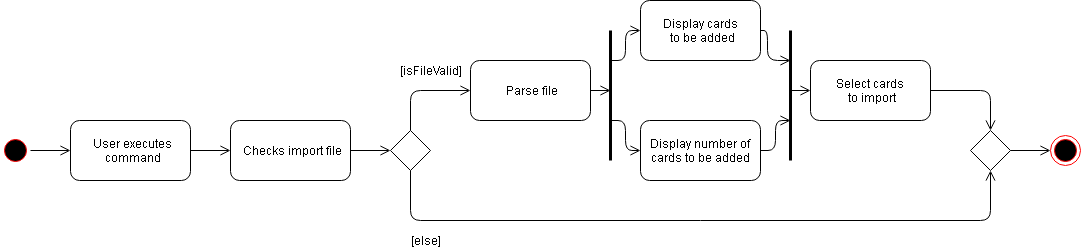
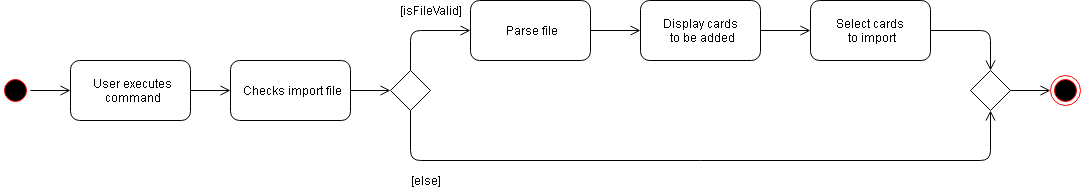
Rebuild pages at 4bc49e5b195c42560e58ed78175b3e92c6da8e38

diff --git a/DeveloperGuide.html b/DeveloperGuide.html
@@ -774,20 +774,25 @@ If the <code>currentStatePointer</code> is at index <code>addressBookStateList.s
 <div class="sect3">
 <h4 id="current-implementation-2"><a class="link" href="#current-implementation-2">3.2.1. Current implementation</a></h4>
 <div class="paragraph">
-<p>The import mechanism works with the <code>StorageManager</code> to add and save multiple cards at once. The imported cards are stored internally as an xml file on the hard disk. Additionally, the import mechanism implements the following operations:</p>
+<p>The import mechanism is facilitated by <code>ImportFile</code> and <code>TriviaBundle</code>.
+Additionally, the import mechanism implements the following operations:</p>
 </div>
 <div class="ulist">
 <ul>
 <li>
-<p><code>ImportCommand#parseFile()</code>&#8201;&#8212;&#8201;Parse the question(s), answer(s) and topic(s) into a list of cards to add.</p>
+<p><code>ImportFile#parseFileToCards()</code>&#8201;&#8212;&#8201;Parse file in a specific format into a unique list of cards.</p>
 </li>
 <li>
-<p><code>ImportCommand#addMultipleCards()</code>&#8201;&#8212;&#8201;Adds a list of cards into the <code>TriviaBundle</code>.</p>
+<p><code>TriviaBundle#haveAnyCard()</code>&#8201;&#8212;&#8201;Checks if the cards to add contain any duplicated cards already in the <code>TriviaBundle</code>.</p>
+</li>
+<li>
+<p><code>TriviaBundle#addMultipleCards()</code>&#8201;&#8212;&#8201;Adds multiple cards into the <code>TriviaBundle</code> at once.</p>
 </li>
 </ul>
 </div>
 <div class="paragraph">
-<p><code>addMultiple()</code> is exposed in the Model interface as Model#addMultipleCards().</p>
+<p>These operations are exposed in the Model interface as <code>Model#parseFileToCards()</code>,
+<code>Model#haveAnyCard()</code>, <code>Model#addMultipleCards()</code> respectively.</p>
 </div>
 <div class="paragraph">
 <p>The following activity diagram summarizes what happens when a user executes the import command.</p>
@@ -801,7 +806,7 @@ If the <code>currentStatePointer</code> is at index <code>addressBookStateList.s
 <p>Given below is an example usage scenario and how the import mechanism behaves.</p>
 </div>
 <div class="paragraph">
-<p>Step 1: The user enters the import command to import a file from the hard disk. An <code>ImportCommand</code> object is initialised.</p>
+<p>Step 1: The user enters the import command to import a file from an absolute file path. An <code>ImportCommand</code> object is initialised.</p>
 </div>
 <div class="paragraph">
 <p>Step 2: When the <code>ImportCommand</code> executes, the desired import file is first verified to be valid. The following checks are done:</p>
@@ -812,7 +817,7 @@ If the <code>currentStatePointer</code> is at index <code>addressBookStateList.s
 <p>the import path points to a file</p>
 </li>
 <li>
-<p>the import file is of .txt type</p>
+<p>the import file is of plain text type (file.txt)</p>
 </li>
 <li>
 <p>the import file is readable</p>
@@ -820,12 +825,20 @@ If the <code>currentStatePointer</code> is at index <code>addressBookStateList.s
 </ul>
 </div>
 <div class="paragraph">
-<p>Step 3: Once verified, the import file is parsed to form a list of cards to be added into <code>TriviaBundle</code>. The number of cards, questions and answer to be imported is displayed to the user.
-The sequence diagram below shows how the adding of multiple cards works</p>
+<p>Step 3: Once verified, the import file is parsed to form a unique list of cards that is stored in <code>UniqueCardList</code>.</p>
+</div>
+<div class="paragraph">
+<p>Step 4: Every card in the unique card list is checked against the existing list of cards in <code>TriviaBundle</code> for duplicates.</p>
+</div>
+<div class="paragraph">
+<p>Step 5: The unique card list is then added into <code>TriviaBundle</code>. The number of cards, the cards imported are displayed to the user for verification.<br></p>
+</div>
+<div class="paragraph">
+<p>The sequence diagram below shows the import of multiple cards.</p>
 </div>
 <div class="imageblock">
 <div class="content">
-<img src="images/AddMutipleCardsSequenceDiagram.png" alt="AddMutipleCardsSequenceDiagram" width="800">
+<img src="images/ImportMultipleCardsSequenceDiagram.png" alt="ImportMultipleCardsSequenceDiagram" width="800">
 </div>
 </div>
 </div>
@@ -869,7 +882,7 @@ The sequence diagram below shows how the adding of multiple cards works</p>
 <div class="ulist">
 <ul>
 <li>
-<p><strong>Alternative 1 (current choice):</strong> Tokenize string according to user defined character between question and answer, and between cards.</p>
+<p><strong>Alternative 1 (current choice):</strong> Tokenize string according to defined characters between question and answer, and between cards.</p>
 <div class="ulist">
 <ul>
 <li>
@@ -882,11 +895,11 @@ The sequence diagram below shows how the adding of multiple cards works</p>
 </div>
 </li>
 <li>
-<p><strong>Alternative 2 (current choice):</strong> Tokenize string based on AddCommand input format</p>
+<p><strong>Alternative 2 (current choice):</strong> Tokenize string based on AddCommand input format.</p>
 <div class="ulist">
 <ul>
 <li>
-<p>Pros: Easy to implement as it allows reuse of add command</p>
+<p>Pros: Easy to implement as it allows reuse of add command functions.</p>
 </li>
 <li>
 <p>Cons: Unable to undo/ redo import of all cards as the import command is essentially multiple add commands.</p>
@@ -1884,13 +1897,10 @@ b. Require developers to download those libraries manually (this creates extra w
 <p>User: Input import command.</p>
 </li>
 <li>
-<p>System: Displays the number of cards, questions and answer to be imported.</p>
+<p>System: Parses import file, displays the cards and the number of cards imported.</p>
 </li>
 <li>
-<p>User: Selects the desired questions and answers to import.</p>
-</li>
-<li>
-<p>System: Stores the desired questions and answers in database.</p>
+<p>User: Reviews cards imported.</p>
 <div class="paragraph">
 <p>Use case ends.</p>
 </div>
@@ -1907,7 +1917,7 @@ b. Require developers to download those libraries manually (this creates extra w
 <div class="ulist none">
 <ul class="none">
 <li>
-<p>2a1. System: Indicates file can&#8217;t be found/read.</p>
+<p>2a1. System: Display invalid file path.</p>
 <div class="paragraph">
 <p>Use case ends.</p>
 </div>
@@ -1924,26 +1934,9 @@ b. Require developers to download those libraries manually (this creates extra w
 <div class="ulist none">
 <ul class="none">
 <li>
-<p>2a1. System: Indicates the format of text is incorrect.</p>
+<p>2a1. System: Displays error, import failure.</p>
 <div class="paragraph">
 <p>Use case ends.</p>
-</div>
-</li>
-</ul>
-</div>
-</li>
-</ul>
-</div>
-<div class="ulist none">
-<ul class="none">
-<li>
-<p>3a. Input index is invalid.</p>
-<div class="ulist none">
-<ul class="none">
-<li>
-<p>3a1. System: Indicates the index (range) entered is invalid.</p>
-<div class="paragraph">
-<p>Use case resumes at step 3.</p>
 </div>
 </li>
 </ul>
@@ -2145,4 +2138,4 @@ Expected: Similar to previous.</p>
 </div>
 </div>
 </div>
-</div></div><div id="footer"><div class="container"><div id="footer-text">Last updated 2018-10-27 15:08:49 UTC</div></div></div></body></html>
+</div></div><div id="footer"><div class="container"><div id="footer-text">Last updated 2018-10-27 15:15:38 UTC</div></div></div></body></html>

diff --git a/ContactUs.html b/ContactUs.html
@@ -10,4 +10,4 @@ noticed bugs or have suggestions on how to improve.</p>
 <p><strong>Contributing</strong> : We welcome pull requests. Follow the process described <a href="https://github.com/oss-generic/process">here</a></p>
 </li>
 </ul>
-</div></div><div id="footer"><div class="container"><div id="footer-text">Last updated 2018-10-27 15:08:49 UTC</div></div></div></body></html>
+</div></div><div id="footer"><div class="container"><div id="footer-text">Last updated 2018-10-27 15:15:38 UTC</div></div></div></body></html>

diff --git a/team/chuajunhui.html b/team/chuajunhui.html
@@ -461,4 +461,4 @@ If the <code>currentStatePointer</code> is at index <code>addressBookStateList.s
 <p><em>{Optionally, you may include other projects in your portfolio.}</em></p>
 </div>
 </div>
-</div></div><div id="footer"><div class="container"><div id="footer-text">Last updated 2018-10-27 15:08:49 UTC</div></div></div></body></html>
+</div></div><div id="footer"><div class="container"><div id="footer-text">Last updated 2018-10-27 15:15:38 UTC</div></div></div></body></html>

diff --git a/team/hozongsien.html b/team/hozongsien.html
@@ -461,4 +461,4 @@ If the <code>currentStatePointer</code> is at index <code>addressBookStateList.s
 <p><em>{Optionally, you may include other projects in your portfolio.}</em></p>
 </div>
 </div>
-</div></div><div id="footer"><div class="container"><div id="footer-text">Last updated 2018-10-27 15:08:49 UTC</div></div></div></body></html>
+</div></div><div id="footer"><div class="container"><div id="footer-text">Last updated 2018-10-27 15:15:38 UTC</div></div></div></body></html>

diff --git a/team/kohjunwei.html b/team/kohjunwei.html
@@ -461,4 +461,4 @@ If the <code>currentStatePointer</code> is at index <code>addressBookStateList.s
 <p><em>{Optionally, you may include other projects in your portfolio.}</em></p>
 </div>
 </div>
-</div></div><div id="footer"><div class="container"><div id="footer-text">Last updated 2018-10-27 15:08:49 UTC</div></div></div></body></html>
+</div></div><div id="footer"><div class="container"><div id="footer-text">Last updated 2018-10-27 15:15:38 UTC</div></div></div></body></html>

diff --git a/team/shaniceabigal.html b/team/shaniceabigal.html
@@ -461,4 +461,4 @@ If the <code>currentStatePointer</code> is at index <code>addressBookStateList.s
 <p><em>{Optionally, you may include other projects in your portfolio.}</em></p>
 </div>
 </div>
-</div></div><div id="footer"><div class="container"><div id="footer-text">Last updated 2018-10-27 15:08:49 UTC</div></div></div></body></html>
+</div></div><div id="footer"><div class="container"><div id="footer-text">Last updated 2018-10-27 15:15:38 UTC</div></div></div></body></html>

diff --git a/team/zihengxiu.html b/team/zihengxiu.html
@@ -461,4 +461,4 @@ If the <code>currentStatePointer</code> is at index <code>addressBookStateList.s
 <p><em>{Optionally, you may include other projects in your portfolio.}</em></p>
 </div>
 </div>
-</div></div><div id="footer"><div class="container"><div id="footer-text">Last updated 2018-10-27 15:08:49 UTC</div></div></div></body></html>
+</div></div><div id="footer"><div class="container"><div id="footer-text">Last updated 2018-10-27 15:15:38 UTC</div></div></div></body></html>

diff --git a/UsingGradle.html b/UsingGradle.html
@@ -255,4 +255,4 @@ See <code>build.gradle</code> &#8594; <code>allprojects</code> &#8594; <code>dep
 </ul>
 </div>
 </div>
-</div></div><div id="footer"><div class="container"><div id="footer-text">Last updated 2018-10-27 15:08:49 UTC</div></div></div></body></html>
+</div></div><div id="footer"><div class="container"><div id="footer-text">Last updated 2018-10-27 15:15:38 UTC</div></div></div></body></html>

diff --git a/UsingNetlify.html b/UsingNetlify.html
@@ -123,4 +123,4 @@ The publish directory is the directory in which the built HTML documentation res
 </ol>
 </div>
 </div>
-</div></div><div id="footer"><div class="container"><div id="footer-text">Last updated 2018-10-27 15:08:49 UTC</div></div></div></body></html>
+</div></div><div id="footer"><div class="container"><div id="footer-text">Last updated 2018-10-27 15:15:38 UTC</div></div></div></body></html>

diff --git a/UsingCoveralls.html b/UsingCoveralls.html
@@ -96,4 +96,4 @@ If you have not set up Travis CI, see <a href="UsingTravis.html">UsingTravis.ado
 </ol>
 </div>
 </div>
-</div></div><div id="footer"><div class="container"><div id="footer-text">Last updated 2018-10-27 15:08:49 UTC</div></div></div></body></html>
+</div></div><div id="footer"><div class="container"><div id="footer-text">Last updated 2018-10-27 15:15:38 UTC</div></div></div></body></html>

diff --git a/UsingTravis.html b/UsingTravis.html
@@ -280,4 +280,4 @@ Suggested change: Remove the codacy badge from <code>README</code>.</p>
 </div>
 </div>
 </div>
-</div></div><div id="footer"><div class="container"><div id="footer-text">Last updated 2018-10-27 15:08:49 UTC</div></div></div></body></html>
+</div></div><div id="footer"><div class="container"><div id="footer-text">Last updated 2018-10-27 15:15:38 UTC</div></div></div></body></html>

diff --git a/UsingCheckstyle.html b/UsingCheckstyle.html
@@ -91,4 +91,4 @@ Restart the IDE to complete the installation.</p>
 </ul>
 </div>
 </div>
-</div></div><div id="footer"><div class="container"><div id="footer-text">Last updated 2018-10-27 15:08:49 UTC</div></div></div></body></html>
+</div></div><div id="footer"><div class="container"><div id="footer-text">Last updated 2018-10-27 15:15:38 UTC</div></div></div></body></html>
